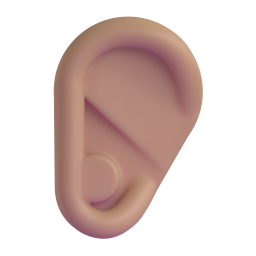
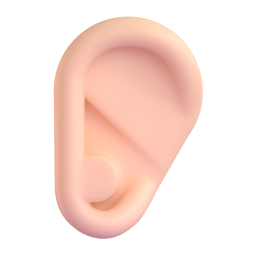
Word pictures: people in Fluent's Light skin tone with dark hair (#142)

diff --git a/src/art/pictures.ts b/src/art/pictures.ts
@@ -4,7 +4,7 @@ import type { ImageSourcePropType } from 'react-native';
  * Word pictures from Microsoft Fluent Emoji 3D (MIT, assets/words/LICENSE), 256 px PNGs bundled with the app so they
  * work offline and look the same on every device. Keyed by word id; words without one (colours, numbers, "family" and
  * three letter examples Fluent has no picture for) keep their drawn SVG in src/art/words. Source name in each comment.
- * People and body parts use Fluent's Medium skin tone (brown hair) instead of the yellow emoji default.
+ * People and body parts use Fluent's Light skin tone (light skin, dark hair) instead of the yellow emoji default.
  */
 export const WORD_PICTURES: Readonly<Record<string, ImageSourcePropType>> = {
   'animals.dog': require('../../assets/words/animals/dog.png'), // Dog face

diff --git a/AI_TASKS.md b/AI_TASKS.md
@@ -146,5 +146,5 @@ Status: todo · doing · waiting-capacity · blocked · done. Done tasks are com
 | 139 | Review 2026-11-10 (paywall, 320 px): the 10 Premium theme tiles (56 px + 8 gap = 312 px a row of five) didn't fit the 288 px column, so the strip broke 4 + 4 + 2 with a lonely last row | 2×5÷1=10 | L | claude | done 2026-11-10: `premiumStripLayout` (offer.ts + test) — one row when all fit, else 5 + 5, tiles shrink only when needed (51 px at 320); web 320, 375, 1024 | even rows at 320 px; tablets unchanged; test; web check |
 | 140 | Review 2026-11-10 (Stickers, dress-up): a locked outfit shows a lock and "★ 1" meaning "1 more sticker", but a child with 2 stickers may read it as "needs 1" and wonder why it is locked; pre-readers can't read either way. Show progress visually: filled/empty star pips toward the unlock (hat 3, glasses 6, crown 10) | 3×4÷2=6 | L | claude | done 2026-11-10: a gold progress bar (stickers earned of the unlock count) beside a star replaces the number; labels unchanged (`outfitProgress` + test); web 320×640 and 1024×768 | pips show stickers earned of needed; label unchanged; fits 320 px 2×2 tiles; test; web check |
 | 141 | Review 2026-11-11 (lesson intro on a 1024×768 tablet): the theme picture stayed at the phone size (140 px) while the word card, answers and reward grow on tall tablets, so the intro looked empty | 3×4÷1=12 | L | claude | done 2026-11-11: `lessonArtSizes().intro` — 200 px on tall tablets, 140 elsewhere (+ test); web 1024×768 200 px no scroll, 375×667 140 px no scroll | intro picture sized by window; no new scroll |
-| 142 | Owner 2026-11-11: "find better pics for my app" — replace the hand-drawn word SVGs with a high-quality, consistent, open-licence set | 5×5÷2=12.5 | M | claude | done 2026-11-11: compared current drawings with Microsoft Fluent Emoji 3D (MIT, 111/121 words covered); owner chose Fluent 3D. 102 PNGs in assets/words + LICENSE, `src/art/pictures.ts`, `WordArt` prefers them; people/body in Medium skin tone; colours, numbers, family and 3 letter examples stay drawn; Family theme card → mom; test `src/art/pictures.test.ts`; web 375 + 1024: Home, Food, Family, letter Բ sheet, no console errors | every word with a Fluent match shows it; licence shipped; test; web check |
+| 142 | Owner 2026-11-11: "find better pics for my app" — replace the hand-drawn word SVGs with a high-quality, consistent, open-licence set | 5×5÷2=12.5 | M | claude | done 2026-11-11: compared current drawings with Microsoft Fluent Emoji 3D (MIT, 111/121 words covered); owner chose Fluent 3D. 102 PNGs in assets/words + LICENSE, `src/art/pictures.ts`, `WordArt` prefers them; people/body in Light skin tone (light skin, dark hair; owner); colours, numbers, family and 3 letter examples stay drawn; Family theme card → mom; test `src/art/pictures.test.ts`; web 375 + 1024: Home, Food, Family, letter Բ sheet, no console errors | every word with a Fluent match shows it; licence shipped; test; web check |
 | 143 | From #142: "family" (and walnut, ship's wheel, wheat letter examples) still use the flat drawing between 3D pictures; find or commission matching 3D art (e.g. compose Fluent mom + dad + child), and consider a higher-resolution source for large tablet sizes | 3×3÷3=3 | M | claude | todo | no flat drawing among 3D pictures on theme pages; sharp at 200 pt on tablets |

diff --git a/AI_DECISIONS.md b/AI_DECISIONS.md
@@ -6,8 +6,8 @@ Durable decisions with reasons. Newest first. Earlier ones are summarized from `
   owner asked for better pictures and picked Fluent 3D from a side-by-side with the drawn SVGs. 102 word pictures are
   256 px PNGs bundled in `assets/words/<theme>/<slug>.png` (MIT, `assets/words/LICENSE`; 3.5 MB), listed in
   `src/art/pictures.ts`, and `WordArt` shows them first. They are images inside the app, not emoji text, so they look
-  the same on every device (the reason for #89 still holds). People and body parts use the Medium skin tone (brown
-  hair). Drawn SVGs stay for the colours and numbers themes (a paint blob / numeral with dots teaches better), for
+  the same on every device (the reason for #89 still holds). People and body parts use the Light skin tone (light
+  skin, dark hair; owner 2026-11-11). Drawn SVGs stay for the colours and numbers themes (a paint blob / numeral with dots teaches better), for
   "family" and three letter examples Fluent lacks (walnut, ship's wheel, wheat), and as the fallback for every
   word; Buddy, icons, scenes and avatars stay drawn. The Family theme card shows mom (`themeArt`). Guard:
   `src/art/pictures.test.ts`. Limits: 256 px is soft above ~170 pt on 3× screens.

diff --git a/PROJECT_STATUS.md b/PROJECT_STATUS.md
@@ -129,7 +129,7 @@ _Updated: 2026-11-11 (owner session). Updated at the end of every session._
   on tall tablets (was 140; web 1024×768 + 375×667, no scroll; 82 suites / 338 tests ✓). Usage at start: 5-hour 1 %,
   weekly 17 %. Next: review the lesson word/answer steps on tablet, #117 handwriting reference; #49 lowest.
 - 2026-11-11 (owner session): #142 word pictures replaced by Microsoft Fluent Emoji 3D (MIT) — 102 bundled PNGs,
-  people in Medium skin tone; colours, numbers, family and 3 letter examples stay drawn (#143 follow-up). Web-checked.
+  people in Light skin tone (dark hair); colours, numbers, family and 3 letter examples stay drawn (#143 follow-up). Web-checked.
 - Verified only in the web preview (`npx expo start --web`). No native run yet.
 
 ## Blockers (owner)

diff --git a/AI_CHANGELOG.md b/AI_CHANGELOG.md
@@ -2,6 +2,12 @@
 
 Newest first. Each entry: date · agent(s) · what changed · files · checks · commit.
 
+## 2026-11-11 owner session (#142, skin tone)
+- claude · Owner: "make them light, Armenians usually don't have dark skin; hair can stay a little dark". Compared
+  Fluent Light vs Medium-Light (Medium-Light makes hair blonde); switched the 15 people and body pictures to Light
+  (light skin, dark hair). Files: assets/words/{body,family}/*.png, src/art/pictures.ts comment, notes. Web: Family
+  page 375 px. Checks: `npm run check` 83 suites / 341 tests ✓.
+
 ## 2026-11-11 owner session (#142)
 - claude · Owner asked for better word pictures. Compared the drawn SVGs with Microsoft Fluent Emoji 3D (MIT, 111 of
   121 words covered) side by side; owner chose Fluent 3D.
